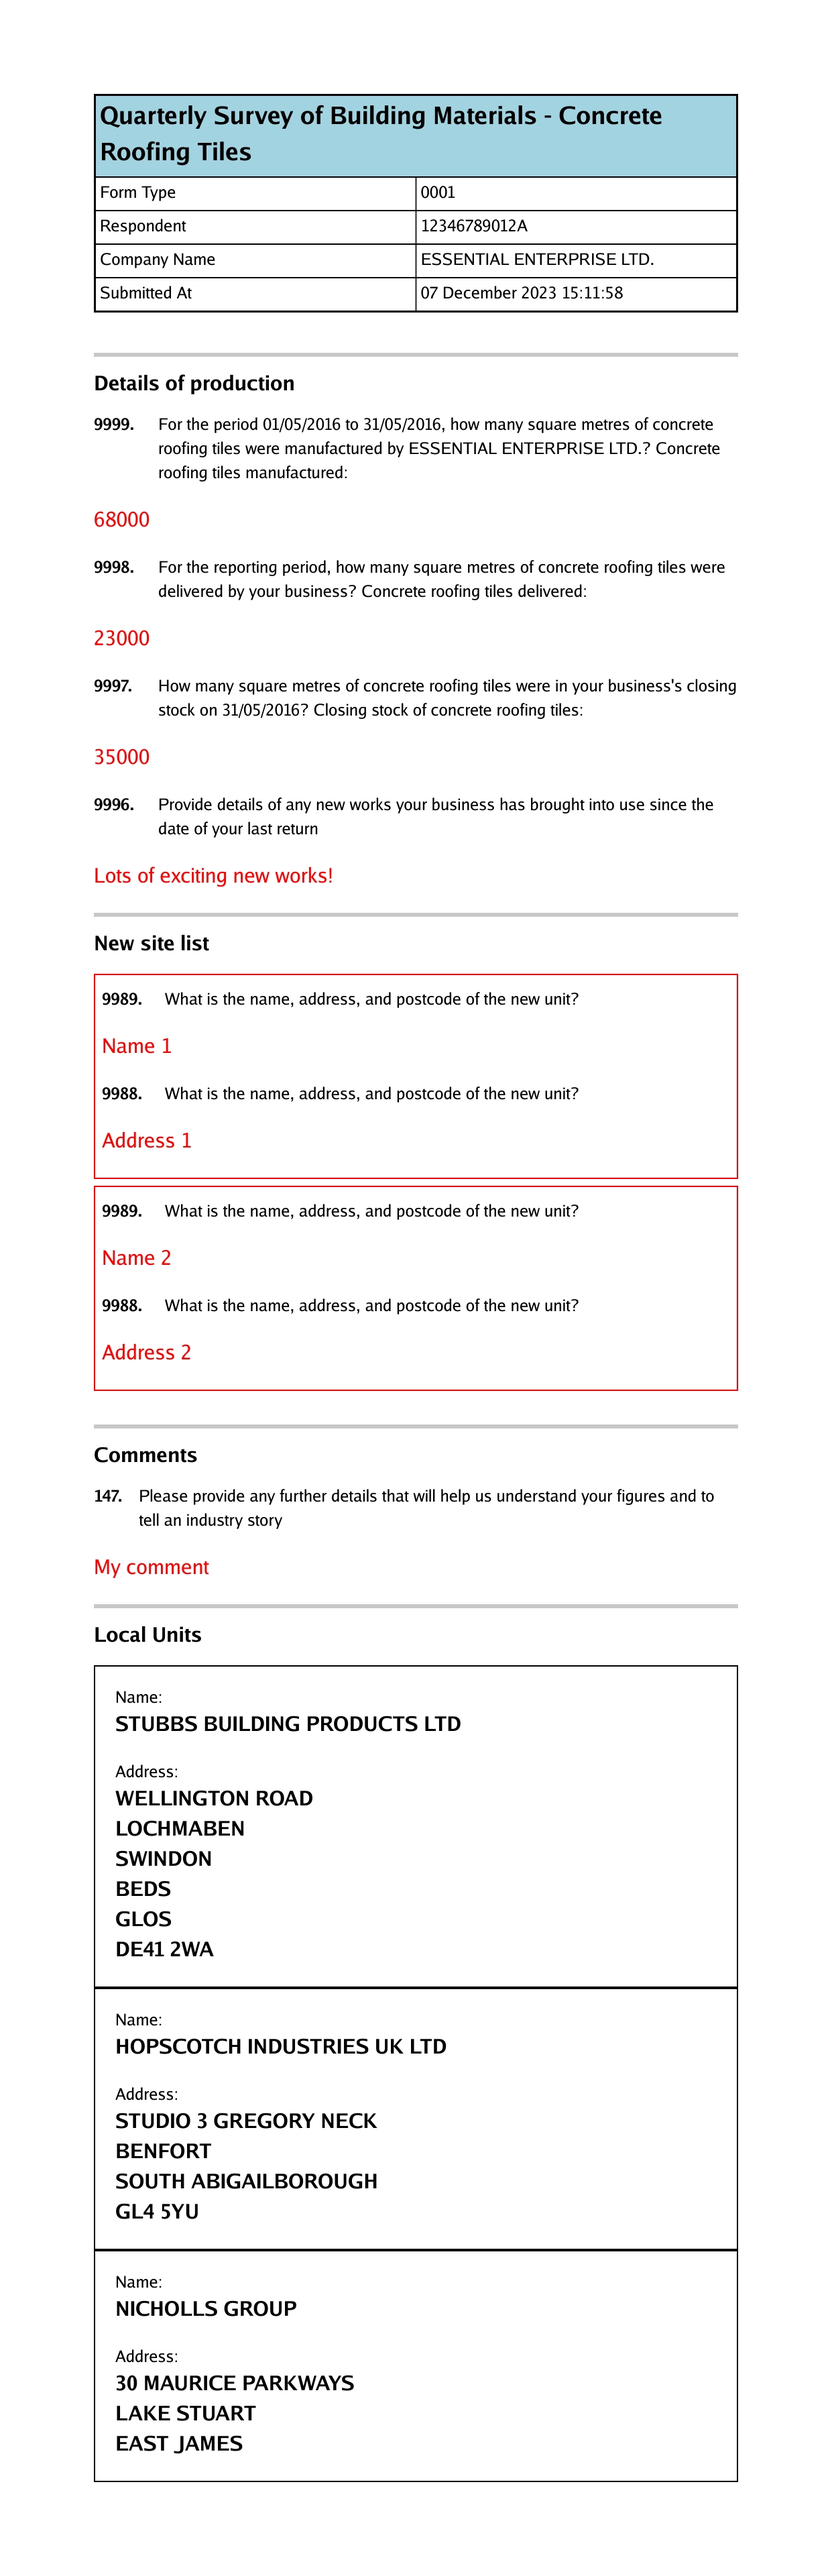
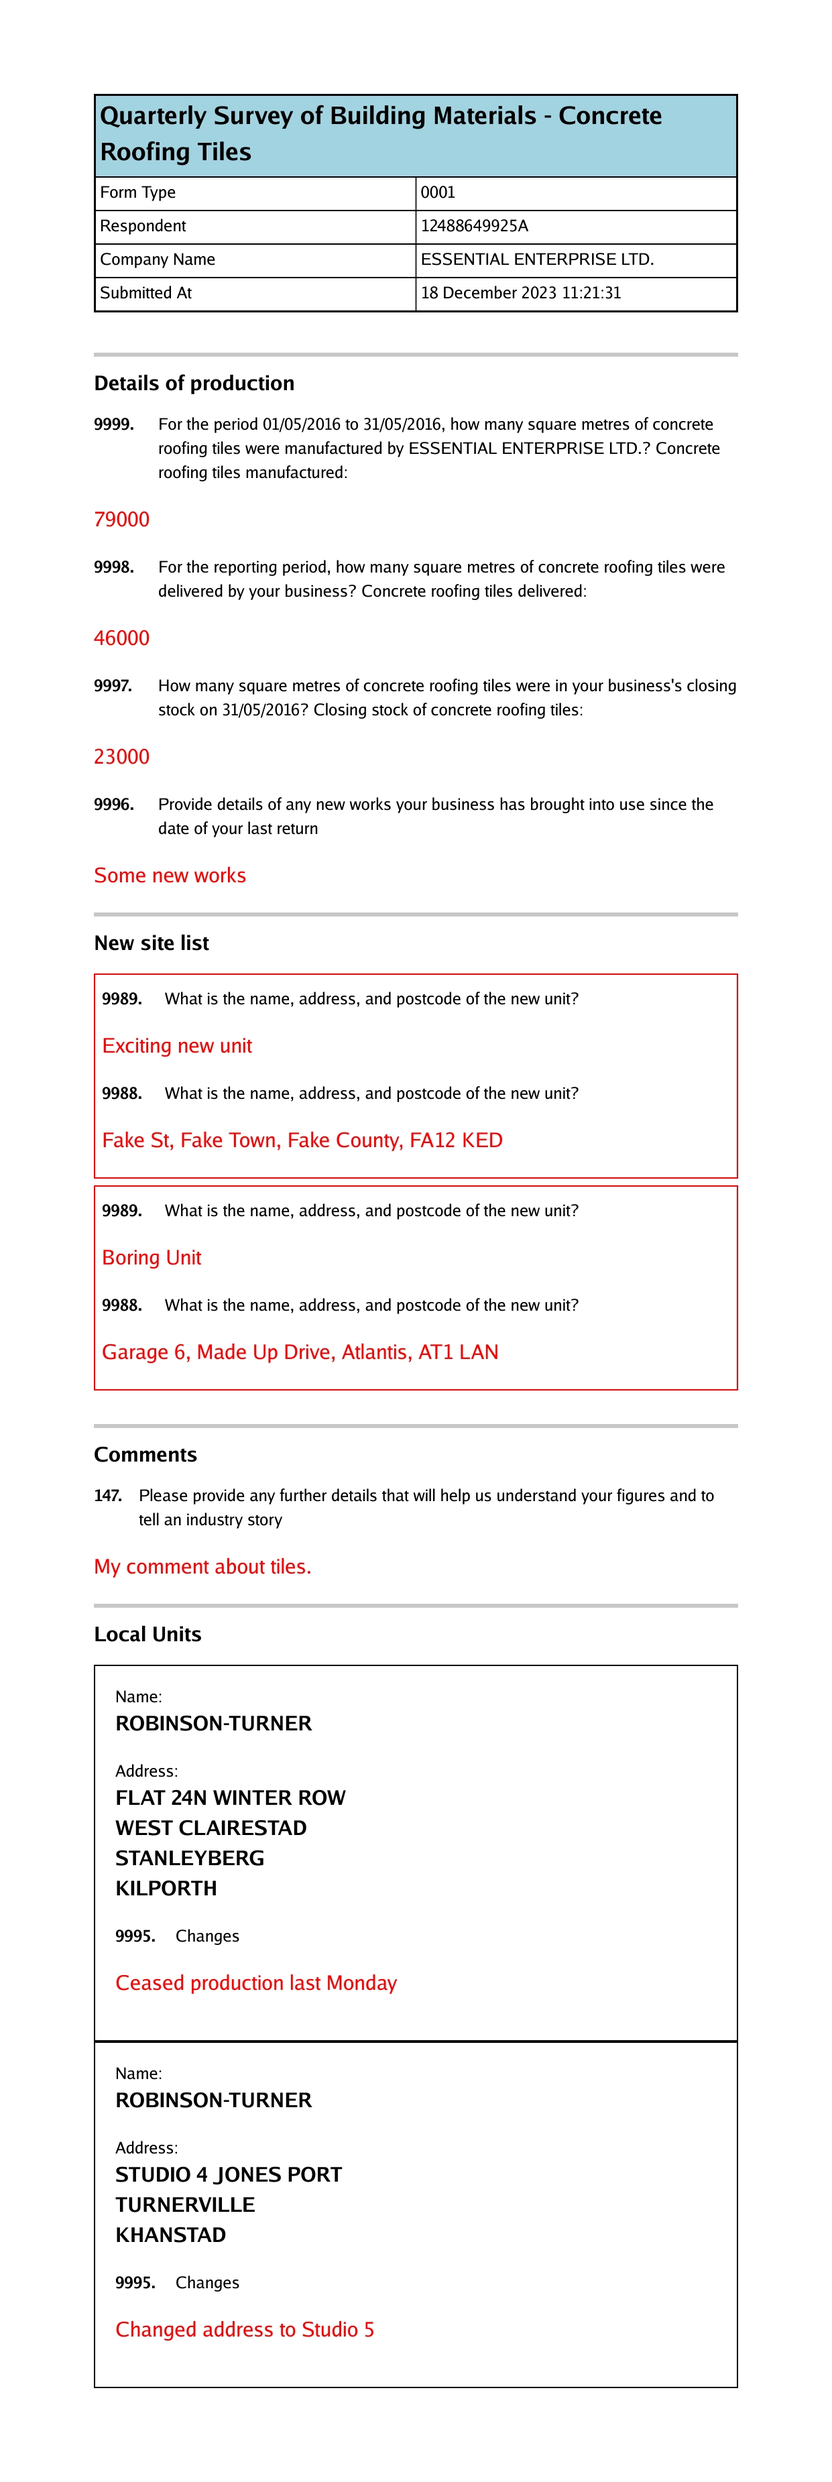
Add Supplementary Data

Changed region(s): [[0.0919, 0.0311, 0.888, 0.963], [0.8574, 0.5281, 0.888, 0.5592]]

diff --git a/internal/submission/supplementary.go b/internal/submission/supplementary.go
@@ -1,12 +1,14 @@
 package submission
 
 import (
+	"sdxImage/internal/interfaces"
 	"strings"
 )
 
 type LocalUnit struct {
-	Name    string   `json:"name"`
-	Address []string `json:"address"`
+	Identifier string   `json:"identifier"`
+	Name       string   `json:"name"`
+	Address    []string `json:"address"`
 }
 
 type Items struct {
@@ -17,10 +19,34 @@ type Supplementary struct {
 	Items Items `json:"items"`
 }
 
-func (lu *LocalUnit) GetName() string {
-	return lu.Name
+type SupplementaryUnit struct {
+	LocalUnit
+	Responses []interfaces.Response
 }
 
-func (lu *LocalUnit) GetAddress() string {
-	return strings.Join(lu.Address, "\n")
+func NewUnit(lu LocalUnit) *SupplementaryUnit {
+	return &SupplementaryUnit{
+		LocalUnit: lu,
+		Responses: make([]interfaces.Response, 0),
+	}
+}
+
+func (su *SupplementaryUnit) GetIdentifier() string {
+	return su.Identifier
+}
+
+func (su *SupplementaryUnit) GetName() string {
+	return su.Name
+}
+
+func (su *SupplementaryUnit) GetAddress() string {
+	return strings.Join(su.Address, "\n")
+}
+
+func (su *SupplementaryUnit) GetResponses() []interfaces.Response {
+	return su.Responses
+}
+
+func (su *SupplementaryUnit) AddResponses(response interfaces.Response) {
+	su.Responses = append(su.Responses, response)
 }

diff --git a/internal/page/local_units.go b/internal/page/local_units.go
@@ -2,13 +2,13 @@ package page
 
 import (
 	"sdxImage/internal/drawing"
+	"sdxImage/internal/interfaces"
 )
 
 const luPadding = 30
 
 func createUnit(
-	name string,
-	address string,
+	lu interfaces.SupplementaryUnit,
 	canvas *drawing.Canvas,
 	parent *drawing.Container) {
 
@@ -21,12 +21,17 @@ func createUnit(
 	canvas.AddText("Name:", questionSize, nameLabel)
 
 	nameAnswer := canvas.AddContainer(drawing.MatchParent(), drawing.FitContent(), outerContainer)
-	canvas.AddBoldText(name, answerSize, nameAnswer)
+	canvas.AddBoldText(lu.GetName(), answerSize, nameAnswer)
 	nameAnswer.SetPadding(0, 0, 0, luPadding)
 
 	addressLabel := canvas.AddContainer(drawing.MatchParent(), drawing.FitContent(), outerContainer)
 	canvas.AddText("Address:", questionSize, addressLabel)
 
 	addressAnswer := canvas.AddContainer(drawing.MatchParent(), drawing.FitContent(), outerContainer)
-	canvas.AddBoldText(address, answerSize, addressAnswer)
+	canvas.AddBoldText(lu.GetAddress(), answerSize, addressAnswer)
+	addressAnswer.SetPadding(0, 0, 0, luPadding)
+
+	for _, answer := range lu.GetAnswers() {
+		createAnswer(answer.GetCode(), "Changes", answer.GetValue(), canvas, outerContainer)
+	}
 }

diff --git a/internal/submission/data.go b/internal/submission/data.go
@@ -6,9 +6,10 @@ import (
 )
 
 type Response struct {
-	QCode    string `json:"questioncode"`
-	Value    string `json:"response"`
-	Instance int    `json:"instance"`
+	QCode        string `json:"questioncode"`
+	Value        string `json:"response"`
+	Instance     int    `json:"instance"`
+	SdIdentifier string `json:"sd_identifier"`
 }
 
 type Data map[string][]interfaces.Response
@@ -20,9 +21,10 @@ func (data *Data) UnmarshalJSON(bytes []byte) error {
 		*data = make(map[string][]interfaces.Response, len(m))
 		for k, v := range m {
 			(*data)[k] = []interfaces.Response{&Response{
-				QCode:    k,
-				Value:    v,
-				Instance: 0,
+				QCode:        k,
+				Value:        v,
+				Instance:     0,
+				SdIdentifier: "",
 			}}
 		}
 	} else {
@@ -55,4 +57,8 @@ func (response *Response) GetValue() string {
 
 func (response *Response) GetInstance() int {
 	return response.Instance
+}
+
+func (response *Response) GetSdIdentifier() string {
+	return response.SdIdentifier
 }

diff --git a/internal/survey/supplementary.go b/internal/survey/supplementary.go
@@ -1,0 +1,41 @@
+package survey
+
+import (
+	"sdxImage/internal/interfaces"
+)
+
+type LocalUnit struct {
+	unit    interfaces.LocalUnit
+	answers []interfaces.Answer
+}
+
+func NewLocalUnit(unit interfaces.LocalUnit) *LocalUnit {
+	answers := make([]interfaces.Answer, len(unit.GetResponses()))
+	for i, response := range unit.GetResponses() {
+		answers[i] = &Answer{
+			Title:    "",
+			QType:    "",
+			QCode:    response.GetCode(),
+			Label:    "",
+			Value:    response.GetValue(),
+			Multiple: false,
+		}
+	}
+	return &LocalUnit{unit: unit, answers: answers}
+}
+
+func (lu *LocalUnit) GetName() string {
+	return lu.unit.GetName()
+}
+
+func (lu *LocalUnit) GetAddress() string {
+	return lu.unit.GetAddress()
+}
+
+func (lu *LocalUnit) GetAnswers() []interfaces.Answer {
+	return lu.answers
+}
+
+func (lu *LocalUnit) AddAnswer() []interfaces.Answer {
+	return lu.answers
+}

diff --git a/internal/submission/v2.go b/internal/submission/v2.go
@@ -70,7 +70,15 @@ func (submission *V2Submission) GetResponses(code string) []interfaces.Response 
 func (submission *V2Submission) GetLocalUnits() []interfaces.LocalUnit {
 	luList := make([]interfaces.LocalUnit, len(submission.Supplementary.Items.LocalUnits))
 	for i, lu := range submission.Supplementary.Items.LocalUnits {
-		luList[i] = lu
+		unit := NewUnit(*lu)
+		for _, responseList := range submission.Data {
+			for _, response := range responseList {
+				if response.GetSdIdentifier() == unit.GetIdentifier() {
+					unit.AddResponses(response)
+				}
+			}
+		}
+		luList[i] = unit
 	}
 	return luList
 }

diff --git a/internal/page/instance.go b/internal/page/instance.go
@@ -1,6 +1,9 @@
 package page
 
-import "sdxImage/internal/drawing"
+import (
+	"sdxImage/internal/drawing"
+	"sdxImage/internal/interfaces"
+)
 
 const indent = 10
 const topPadding = 20
@@ -31,6 +34,6 @@ func (instance *Instance) addAnswer(qCode, question, answer string) {
 	createAnswer(qCode, question, answer, instance.canvas, instance.container)
 }
 
-func (instance *Instance) addLocalUnit(name, address string) {
-	createUnit(name, address, instance.canvas, instance.container)
+func (instance *Instance) addLocalUnit(lu interfaces.SupplementaryUnit) {
+	createUnit(lu, instance.canvas, instance.container)
 }

diff --git a/internal/survey/create.go b/internal/survey/create.go
@@ -18,7 +18,12 @@ func Create(schema interfaces.Schema, submission interfaces.Submission) interfac
 		RuName:      submission.GetRuName(),
 		SubmittedAt: substitutions.DateFormat(submission.GetSubmittedAt()),
 		Sections:    []interfaces.Section{},
-		LocalUnits:  submission.GetLocalUnits(),
+		LocalUnits:  make([]interfaces.SupplementaryUnit, len(submission.GetLocalUnits())),
+	}
+
+	for i, lu := range submission.GetLocalUnits() {
+		unit := NewLocalUnit(lu)
+		survey.LocalUnits[i] = unit
 	}
 
 	var sections []interfaces.Section

diff --git a/internal/survey/survey.go b/internal/survey/survey.go
@@ -15,7 +15,7 @@ type Survey struct {
 	RuName      string
 	SubmittedAt string
 	Sections    []interfaces.Section
-	LocalUnits  []interfaces.LocalUnit
+	LocalUnits  []interfaces.SupplementaryUnit
 }
 
 func (survey *Survey) String() string {
@@ -54,6 +54,6 @@ func (survey *Survey) GetSections() []interfaces.Section {
 	return survey.Sections
 }
 
-func (survey *Survey) GetLocalUnits() []interfaces.LocalUnit {
+func (survey *Survey) GetLocalUnits() []interfaces.SupplementaryUnit {
 	return survey.LocalUnits
 }

diff --git a/internal/interfaces/survey.go b/internal/interfaces/survey.go
@@ -6,6 +6,12 @@ type Answer interface {
 	GetValue() string
 }
 
+type SupplementaryUnit interface {
+	GetName() string
+	GetAddress() string
+	GetAnswers() []Answer
+}
+
 type Instance interface {
 	GetId() int
 	GetAnswers() []Answer
@@ -24,5 +30,5 @@ type Survey interface {
 	GetRuName() string
 	GetSubmittedAt() string
 	GetSections() []Section
-	GetLocalUnits() []LocalUnit
+	GetLocalUnits() []SupplementaryUnit
 }

diff --git a/internal/page/create.go b/internal/page/create.go
@@ -31,7 +31,7 @@ func Create(survey interfaces.Survey) image.Image {
 		section := page.addSection("Local Units")
 		instance := section.addInstance(0)
 		for _, lu := range survey.GetLocalUnits() {
-			instance.addLocalUnit(lu.GetName(), lu.GetAddress())
+			instance.addLocalUnit(lu)
 		}
 		section.complete()
 	}

diff --git a/internal/interfaces/submission.go b/internal/interfaces/submission.go
@@ -4,11 +4,14 @@ type Response interface {
 	GetCode() string
 	GetValue() string
 	GetInstance() int
+	GetSdIdentifier() string
 }
 
 type LocalUnit interface {
+	GetIdentifier() string
 	GetName() string
 	GetAddress() string
+	GetResponses() []Response
 }
 
 type Submission interface {
